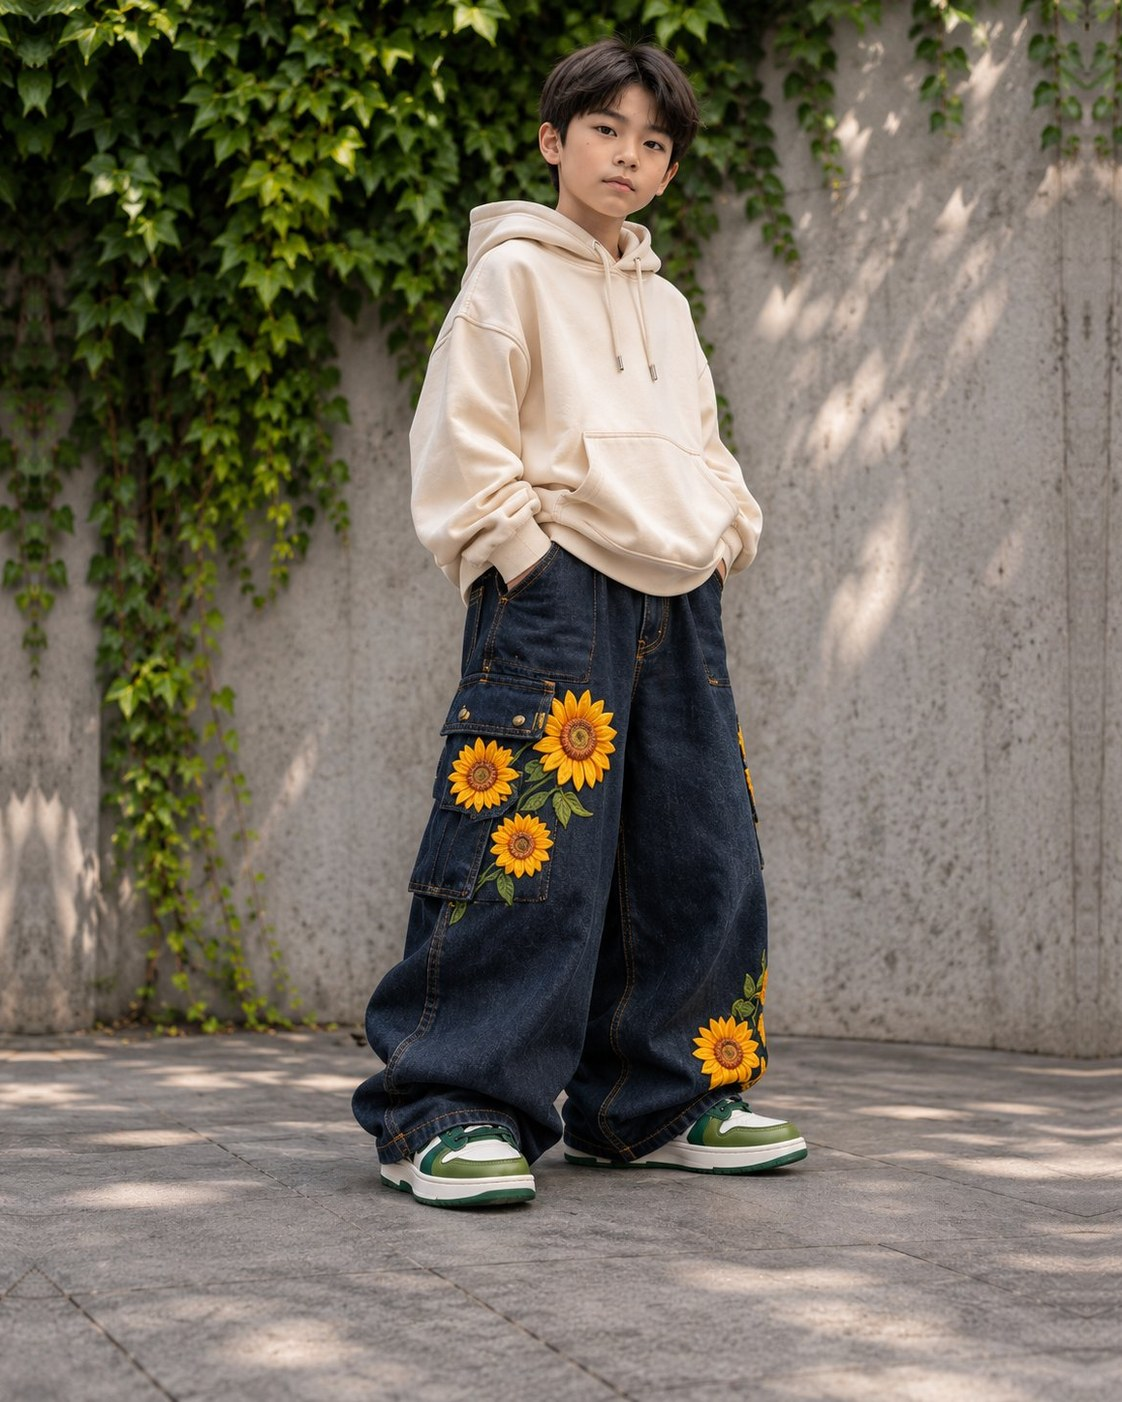
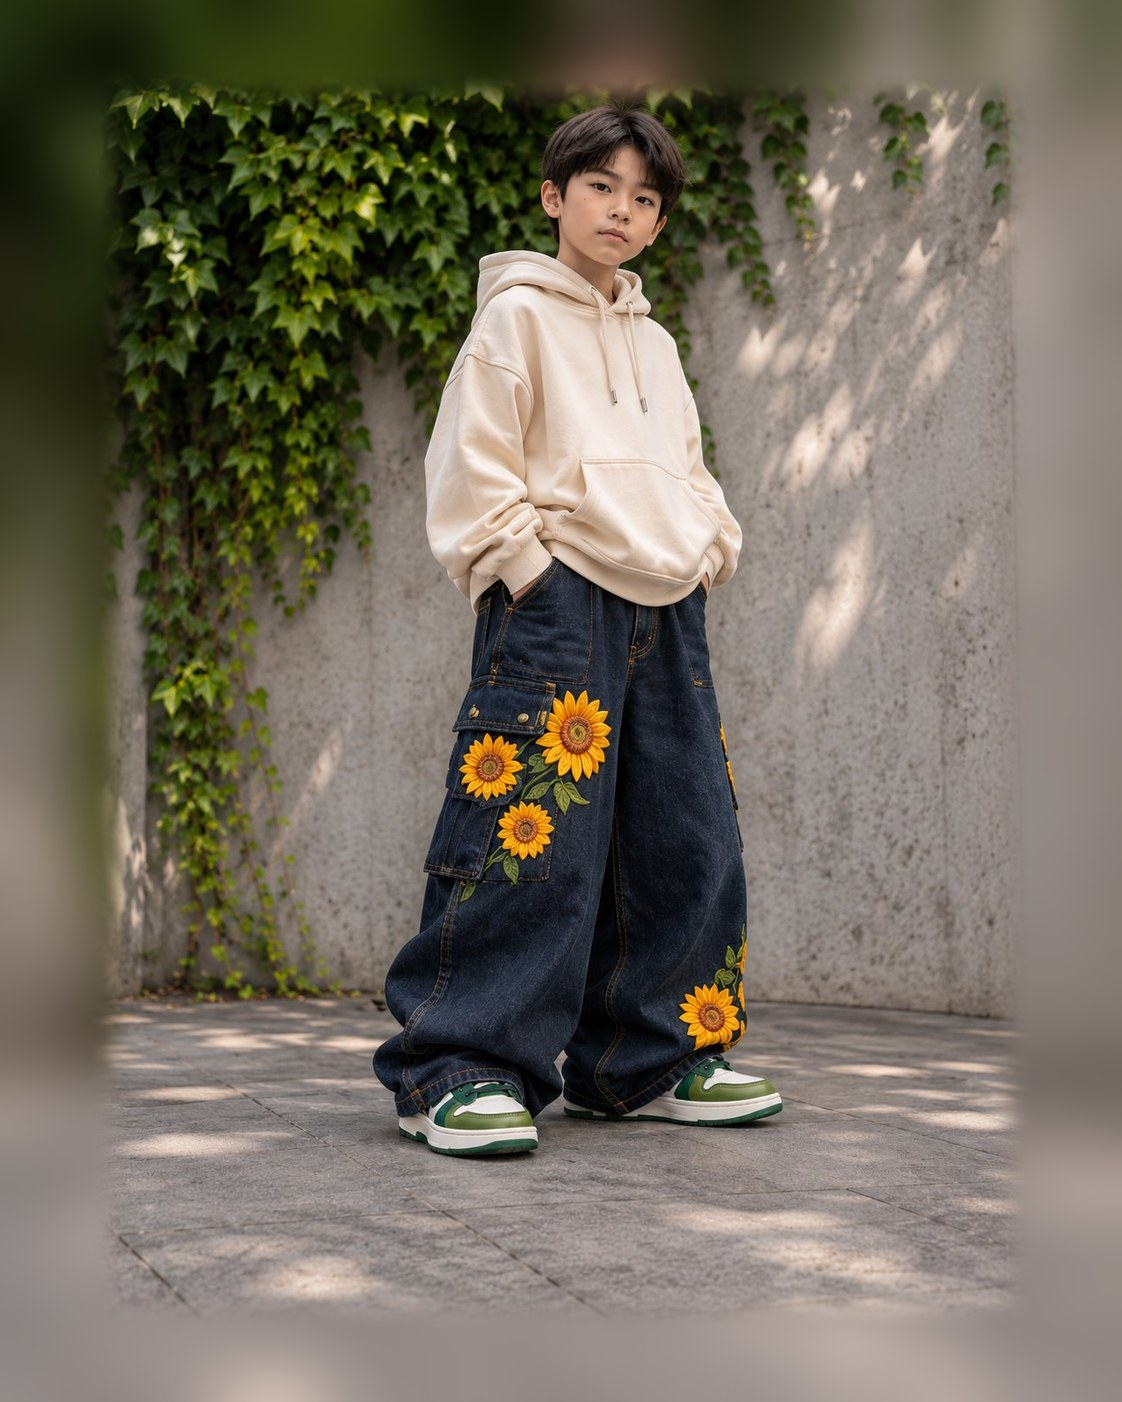
Card hover photos fitted inside the card for all photo products

diff --git a/products.js b/products.js
@@ -27,34 +27,34 @@
 
   var PRODUCTS = [
   // ---- Le Denim ----
-  { slug: "asymmetric-flap-cargo-jeans", name: "Asymmetric Flap Cargo Jeans", category: "denim", price: 5299, sale: true, folder: "pdp-asymmetric-flap-cargo-jeans",
+  { slug: "asymmetric-flap-cargo-jeans", name: "Asymmetric Flap Cargo Jeans", category: "denim", price: 5299, sale: true, folder: "pdp-asymmetric-flap-cargo-jeans", hov: true,
     details: ["Charcoal black washed denim", "Wide-leg relaxed fit", "Layered flap panel across the waist", "Cargo pockets with straps and D-rings"],
     description: "Wide-leg jeans in a charcoal black wash with a layered flap panel across the front and tiered cargo pockets on the sides. Metal D-rings and utility straps add detail to a relaxed, roomy leg." },
-  { slug: "swirl-panel-wide-jeans", name: "Swirl Panel Wide Jeans", category: "denim", price: 5499, sale: true, folder: "pdp-swirl-panel-wide-jeans",
+  { slug: "swirl-panel-wide-jeans", name: "Swirl Panel Wide Jeans", category: "denim", price: 5499, sale: true, folder: "pdp-swirl-panel-wide-jeans", hov: true,
     details: ["Washed black denim", "Extra-wide relaxed fit", "Curved contrast-wash panels", "Classic five-pocket styling"],
     description: "Extra-wide jeans in washed black denim, with curved panels in a lighter wash sweeping down both legs. A bold shape that keeps the rest of the outfit simple." },
-  { slug: "distressed-khaki-wide-jeans", name: "Distressed Khaki Wide Jeans", category: "denim", price: 4899, sale: false, folder: "pdp-distressed-khaki-wide-jeans",
+  { slug: "distressed-khaki-wide-jeans", name: "Distressed Khaki Wide Jeans", category: "denim", price: 4899, sale: false, folder: "pdp-distressed-khaki-wide-jeans", hov: true,
     details: ["Washed khaki denim", "Wide-leg relaxed fit", "Hand-distressed rips and fraying", "Classic five-pocket styling"],
     description: "Wide-leg jeans in a sun-faded khaki wash, with rips and frayed patches worked across the front, back and sides. A lived-in look straight off the hanger." },
-  { slug: "tribal-print-black-jeans", name: "Tribal Print Black Jeans", category: "denim", price: 4299, sale: false, folder: "pdp-tribal-print-black-jeans",
+  { slug: "tribal-print-black-jeans", name: "Tribal Print Black Jeans", category: "denim", price: 4299, sale: false, folder: "pdp-tribal-print-black-jeans", hov: true,
     details: ["Washed black denim", "Wide-leg relaxed fit", "White tribal graphic on each leg", "Contrast stitching"],
     description: "Wide-leg black jeans with a large white tribal graphic running down each leg, front and back, and crisp contrast stitching along the seams." },
-  { slug: "black-patch-cargo-jeans", name: "Black Patch Cargo Jeans", category: "denim", price: 5199, sale: false, folder: "pdp-black-patch-cargo-jeans",
+  { slug: "black-patch-cargo-jeans", name: "Black Patch Cargo Jeans", category: "denim", price: 5199, sale: false, folder: "pdp-black-patch-cargo-jeans", hov: true,
     details: ["Washed charcoal black denim", "Wide-leg relaxed fit", "Large flap cargo pockets", "Classic five-pocket styling"],
     description: "Wide-leg cargo jeans in a washed charcoal black with oversized flap pockets on the thighs. Easy, practical and made to be worn with everything." },
-  { slug: "lightning-cargo-jeans", name: "Lightning Cargo Jeans", category: "denim", price: 5699, sale: false, folder: "pdp-lightning-cargo-jeans",
+  { slug: "lightning-cargo-jeans", name: "Lightning Cargo Jeans", category: "denim", price: 5699, sale: false, folder: "pdp-lightning-cargo-jeans", hov: true,
     details: ["Black denim with electric blue lightning print", "Wide-leg relaxed fit", "Layered cargo pockets", "Overlapping waist panel"],
     description: "Wide-leg black cargo jeans with a glowing electric blue lightning print that runs across the front, back and sides. Layered cargo pockets and an overlapping waist panel finish the look." },
-  { slug: "flame-wide-jeans", name: "Flame Wide Jeans", category: "denim", price: 4799, sale: true, folder: "pdp-flame-wide-jeans",
+  { slug: "flame-wide-jeans", name: "Flame Wide Jeans", category: "denim", price: 4799, sale: true, folder: "pdp-flame-wide-jeans", hov: true,
     details: ["Black denim with red fade", "Wide-leg relaxed fit", "Embroidered red and gold flames", "Red contrast stitching"],
     description: "Wide-leg jeans in black denim that fades to red at the hem, with embroidered red and gold flames licking up both legs and red contrast stitching throughout." },
-  { slug: "cherry-blossom-wide-jeans", name: "Cherry Blossom Wide Jeans", category: "denim", price: 4499, sale: false, folder: "pdp-cherry-blossom-wide-jeans",
+  { slug: "cherry-blossom-wide-jeans", name: "Cherry Blossom Wide Jeans", category: "denim", price: 4499, sale: false, folder: "pdp-cherry-blossom-wide-jeans", hov: true,
     details: ["Washed black denim", "Extra-wide relaxed fit", "Embroidered pink cherry blossoms", "Classic five-pocket styling"],
     description: "Extra-wide jeans in a soft washed black, with a branch of embroidered pink cherry blossoms climbing the leg. A gentle detail on a strong silhouette." },
   { slug: "sunflower-cargo-jeans", name: "Sunflower Cargo Jeans", category: "denim", price: 5699, sale: false, folder: "pdp-sunflower-cargo-jeans", hov: true,
     details: ["Dark indigo denim", "Wide-leg relaxed fit", "Embroidered sunflowers", "Flap cargo pockets"],
     description: "Wide-leg cargo jeans in dark indigo denim, with embroidered sunflowers and leaves on the pockets and hem. Bright and cheerful against the deep wash." },
-  { slug: "spiral-panel-cargo-jeans", name: "Spiral Panel Cargo Jeans", category: "denim", price: 5099, sale: false, folder: "pdp-spiral-panel-cargo-jeans",
+  { slug: "spiral-panel-cargo-jeans", name: "Spiral Panel Cargo Jeans", category: "denim", price: 5099, sale: false, folder: "pdp-spiral-panel-cargo-jeans", hov: true,
     details: ["Washed charcoal denim", "Extra-wide relaxed fit", "Curved panelling on both legs", "Side cargo pocket"],
     description: "Extra-wide jeans in a washed charcoal with curved, spiralling panels down both legs and a flap cargo pocket on the side seam." },
   { slug: "relaxed-atelier-denim", name: "Relaxed Atelier Denim", category: "denim", price: 4999, sale: true, folder: "pdp-relaxed-atelier-denim",
@@ -65,7 +65,7 @@
     description: "A denim piece from the Dolce Orso Autumn/Winter collection. Full product details coming soon." },
 
   // ---- Les Tees ----
-  { slug: "starboy-graphic-tee", name: "Starboy Graphic Tee", category: "t-shirts", price: 4299, sale: true, folder: "pdp-starboy-graphic-tee", noSide: true,
+  { slug: "starboy-graphic-tee", name: "Starboy Graphic Tee", category: "t-shirts", price: 4299, sale: true, folder: "pdp-starboy-graphic-tee", hov: true, noSide: true,
     details: ["Soft cotton jersey in off-white", "Oversized relaxed fit", "Embroidered \"starboy\" script on the chest", "Large embroidered graphic on the back"],
     description: "An off-white oversized tee with a small embroidered \"starboy\" script and stars on the chest, and a bold hand-drawn boy graphic stitched across the back." },
   { slug: "crochet-mandala-tee", name: "Crochet Mandala Tee", category: "t-shirts", price: 4499, sale: false, folder: "pdp-crochet-mandala-tee", hov: true, noSide: true,
@@ -77,7 +77,7 @@
   { slug: "parisian-script-tee", name: "Parisian Script Tee", category: "t-shirts", price: 4199, sale: false, folder: "pdp-parisian-script-tee", hov: true, noSide: true,
     details: ["Soft cotton jersey in white", "Oversized relaxed fit", "Two black starburst prints on the chest", "Cursive Paris address script on the back"],
     description: "A white oversized tee with two black starbursts on the chest and an elegant cursive Paris address printed across the back." },
-  { slug: "ladybug-washed-tee", name: "Ladybug Washed Tee", category: "t-shirts", price: 999, sale: false, folder: "pdp-ladybug-washed-tee", noSide: true,
+  { slug: "ladybug-washed-tee", name: "Ladybug Washed Tee", category: "t-shirts", price: 999, sale: false, folder: "pdp-ladybug-washed-tee", hov: true, noSide: true,
     details: ["Washed charcoal cotton jersey", "Oversized boxy fit", "Embroidered red ladybugs on the front", "Plain back"],
     description: "A washed charcoal oversized tee with a scatter of embroidered red ladybugs across the front. The back is left plain." },
   { slug: "tribal-back-washed-tee", name: "Tribal Back Washed Tee", category: "t-shirts", price: 4399, sale: true, folder: "pdp-tribal-back-washed-tee", hov: true, noSide: true,

diff --git a/settings.js b/settings.js
@@ -36,7 +36,7 @@ window.DOLCE_SETTINGS = {
 
   // Raise this number by 1 whenever you replace product photos, so every
   // visitor's browser downloads the new pictures instead of showing old ones.
-  imageVersion: 7,
+  imageVersion: 9,
 
   // Hand-picked product lists for the Gift Guide and Most Loved pages.
   // Use the "slug" of each product from products.js.
